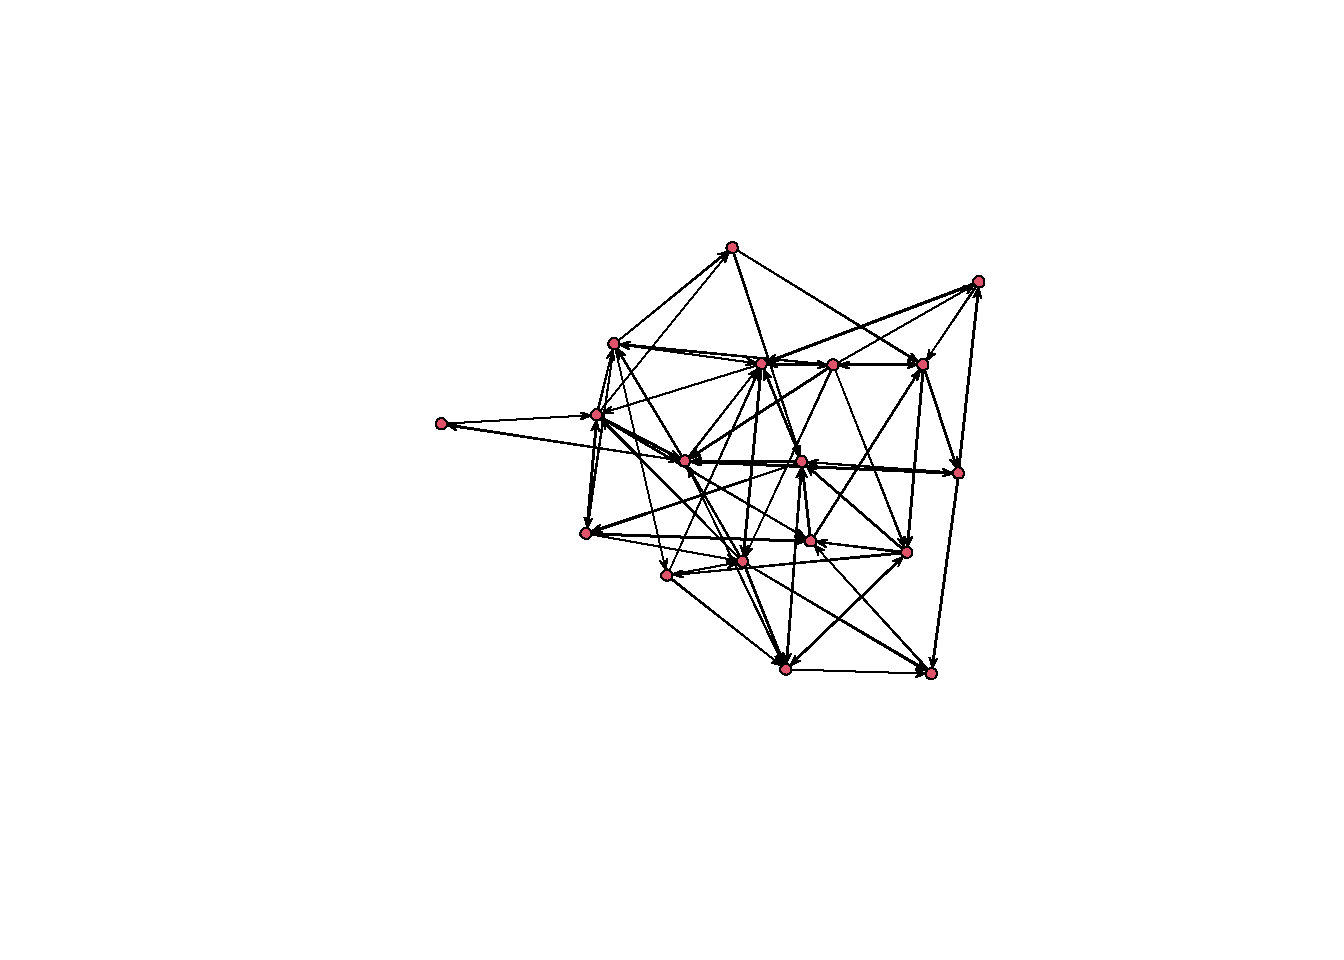
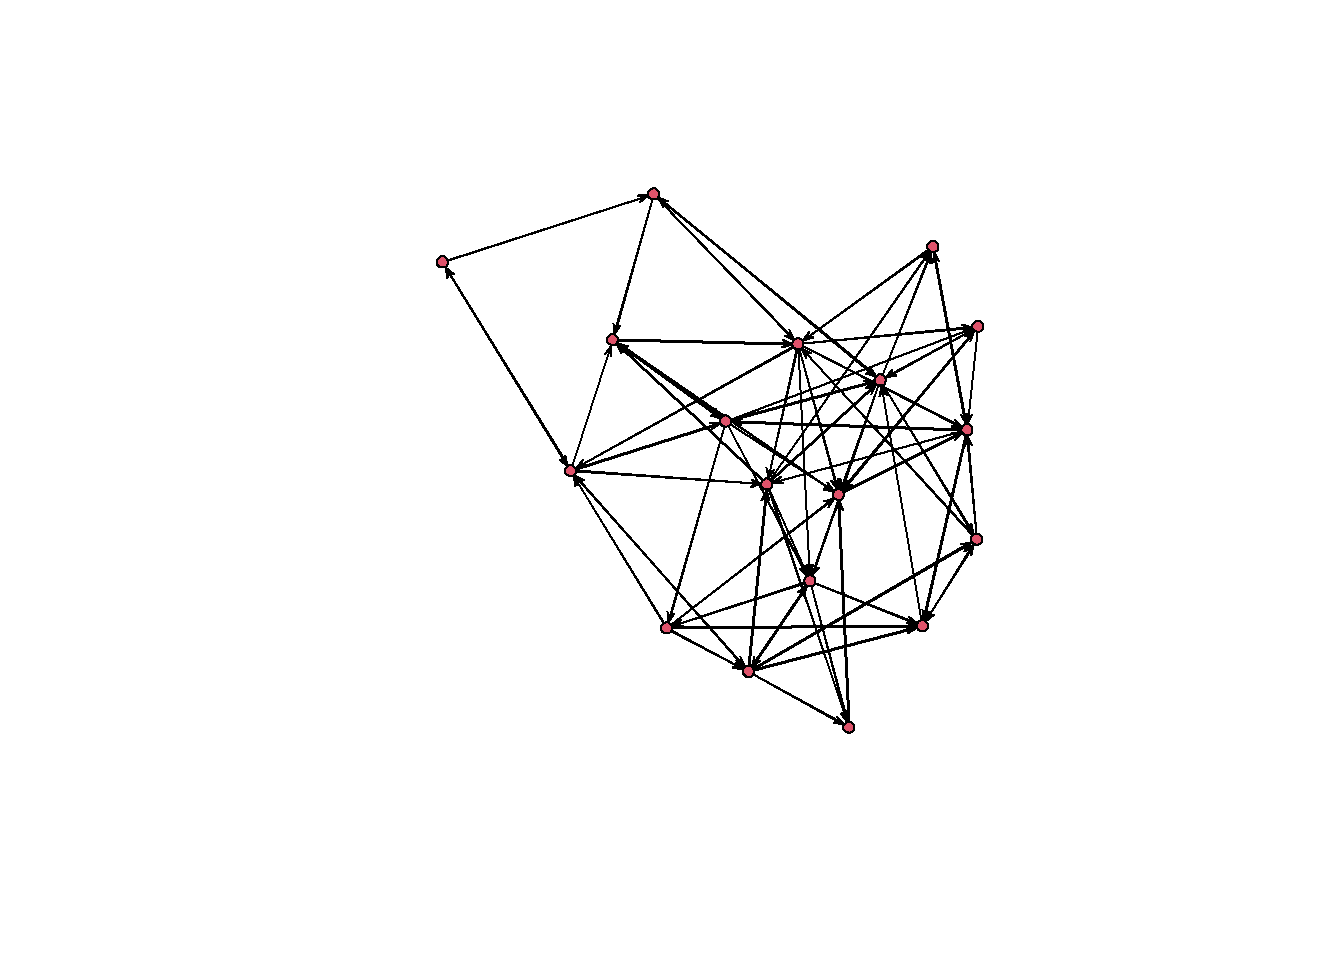
Built site for gh-pages

diff --git a/blogs/2026-08-09-ergm-interpretation_part1/index.html b/blogs/2026-08-09-ergm-interpretation_part1/index.html
@@ -292,7 +292,7 @@ window.Quarto = {
 
 
 <p>In an <a href="../../blogs/2025-05-27-ergm-intuition/index.html">earlier post</a> I worked through where ERGM parameter values come from. This post picks up the practical side: how to fit a model to real network data and how to read the coefficients once you have them.</p>
-<p>The data are advice ties among 47 teachers in an elementary school, along with a second network of friendship ties among the same teachers. Both are deidentified. The advice network comes from work on how internal competition shapes advice seeking in schools. This data are for one of the schools associated with this Public Administration Review piece: https://onlinelibrary.wiley.com/doi/abs/10.1111/puar.12362</p>
+<p>The data are advice ties among 18 teachers in an elementary school, along with a second network of friendship ties among the same teachers. Both are deidentified. The advice network comes from work on how internal competition shapes advice seeking in schools. This data are for one of the schools associated with this Public Administration Review piece: https://onlinelibrary.wiley.com/doi/abs/10.1111/puar.12362</p>
 <div class="cell">
 <div class="code-copy-outer-scaffold"><div class="sourceCode cell-code" id="cb1"><pre class="sourceCode r code-with-copy"><code class="sourceCode r"><span id="cb1-1"><a href="#cb1-1" aria-hidden="true" tabindex="-1"></a><span class="fu">library</span>(statnet)</span>
 <span id="cb1-2"><a href="#cb1-2" aria-hidden="true" tabindex="-1"></a><span class="fu">library</span>(texreg)</span>
@@ -374,7 +374,7 @@ AIC: 333.5  BIC: 337.3  (Smaller is better. MC Std. Err. = 0)</code></pre>
 </div>
 <p>This is worth sitting with for a moment. In a model where the only thing governing tie formation is a constant probability, the fitted probability <em>has</em> to be the observed density — there is nothing else in the model to explain anything. We can confirm the arithmetic directly:</p>
 <div class="cell">
-<div class="code-copy-outer-scaffold"><div class="sourceCode cell-code" id="cb16"><pre class="sourceCode r code-with-copy"><code class="sourceCode r"><span id="cb16-1"><a href="#cb16-1" aria-hidden="true" tabindex="-1"></a><span class="fu">network.dyadcount</span>(par5)   <span class="co"># 47 * 46 possible directed ties</span></span></code></pre></div><button title="Copy to Clipboard" class="code-copy-button"><i class="bi"></i></button></div>
+<div class="code-copy-outer-scaffold"><div class="sourceCode cell-code" id="cb16"><pre class="sourceCode r code-with-copy"><code class="sourceCode r"><span id="cb16-1"><a href="#cb16-1" aria-hidden="true" tabindex="-1"></a><span class="fu">network.dyadcount</span>(par5)   <span class="co"># 18 * 17 possible directed ties</span></span></code></pre></div><button title="Copy to Clipboard" class="code-copy-button"><i class="bi"></i></button></div>
 <div class="cell-output cell-output-stdout">
 <pre><code>[1] 306</code></pre>
 </div>
@@ -408,7 +408,7 @@ AIC: 333.5  BIC: 337.3  (Smaller is better. MC Std. Err. = 0)</code></pre>
 <div class="code-copy-outer-scaffold"><div class="sourceCode cell-code" id="cb23"><pre class="sourceCode r code-with-copy"><code class="sourceCode r"><span id="cb23-1"><a href="#cb23-1" aria-hidden="true" tabindex="-1"></a><span class="fu">summary</span>(sims <span class="sc">~</span> edges <span class="sc">+</span> mutual <span class="sc">+</span> triangle <span class="sc">+</span> twopath)</span></code></pre></div><button title="Copy to Clipboard" class="code-copy-button"><i class="bi"></i></button></div>
 <div class="cell-output cell-output-stdout">
 <pre><code>   edges   mutual triangle  twopath 
-      61        6       47      206 </code></pre>
+      66        8       61      228 </code></pre>
 </div>
 <div class="code-copy-outer-scaffold"><div class="sourceCode cell-code" id="cb25"><pre class="sourceCode r code-with-copy"><code class="sourceCode r"><span id="cb25-1"><a href="#cb25-1" aria-hidden="true" tabindex="-1"></a><span class="fu">summary</span>(par5 <span class="sc">~</span> edges <span class="sc">+</span> mutual <span class="sc">+</span> triangle <span class="sc">+</span> twopath)</span></code></pre></div><button title="Copy to Clipboard" class="code-copy-button"><i class="bi"></i></button></div>
 <div class="cell-output cell-output-stdout">
@@ -421,7 +421,7 @@ AIC: 333.5  BIC: 337.3  (Smaller is better. MC Std. Err. = 0)</code></pre>
 </section>
 <section id="what-the-statistics-actually-count" class="level2">
 <h2 class="anchored" data-anchor-id="what-the-statistics-actually-count">What the statistics actually count</h2>
-<p>Before adding terms, it helps to see what these network statistics are counting. The counts are hard to eyeball even in a network of 47 nodes, so here is a toy undirected network of 7:</p>
+<p>Before adding terms, it helps to see what these network statistics are counting. The counts are hard to eyeball even in a small network of 18 nodes, so let’s simulate an even smaller undirected network of 7 nodes:</p>
 <div class="cell">
 <div class="code-copy-outer-scaffold"><div class="sourceCode cell-code" id="cb27"><pre class="sourceCode r code-with-copy"><code class="sourceCode r"><span id="cb27-1"><a href="#cb27-1" aria-hidden="true" tabindex="-1"></a>newmat <span class="ot">&lt;-</span> <span class="fu">rbind</span>(<span class="fu">c</span>(<span class="dv">0</span>,<span class="dv">1</span>,<span class="dv">1</span>,<span class="dv">1</span>,<span class="dv">0</span>,<span class="dv">0</span>,<span class="dv">0</span>),</span>
 <span id="cb27-2"><a href="#cb27-2" aria-hidden="true" tabindex="-1"></a>                <span class="fu">c</span>(<span class="dv">1</span>,<span class="dv">0</span>,<span class="dv">1</span>,<span class="dv">1</span>,<span class="dv">0</span>,<span class="dv">0</span>,<span class="dv">0</span>),</span>

diff --git a/blogs.html b/blogs.html
@@ -241,7 +241,7 @@ window.Quarto = {
 
 <div class="quarto-listing quarto-listing-container-grid" id="listing-listing">
 <div class="list grid quarto-listing-cols-3">
-<div class="g-col-1" data-index="0" data-categories="ZXJnbSUyQ3NuYSUyQ3I=" data-listing-date-sort="1786251600000" data-listing-file-modified-sort="1786306978848" data-listing-date-modified-sort="NaN" data-listing-reading-time-sort="7" data-listing-word-count-sort="1255">
+<div class="g-col-1" data-index="0" data-categories="ZXJnbSUyQ3NuYSUyQ3I=" data-listing-date-sort="1786251600000" data-listing-file-modified-sort="1786800855586" data-listing-date-modified-sort="NaN" data-listing-reading-time-sort="7" data-listing-word-count-sort="1258">
 <a href="./blogs/2026-08-09-ergm-interpretation_part1/index.html" class="quarto-grid-link">
 <div class="quarto-grid-item card h-100 card-left">
 <p class="card-img-top">
